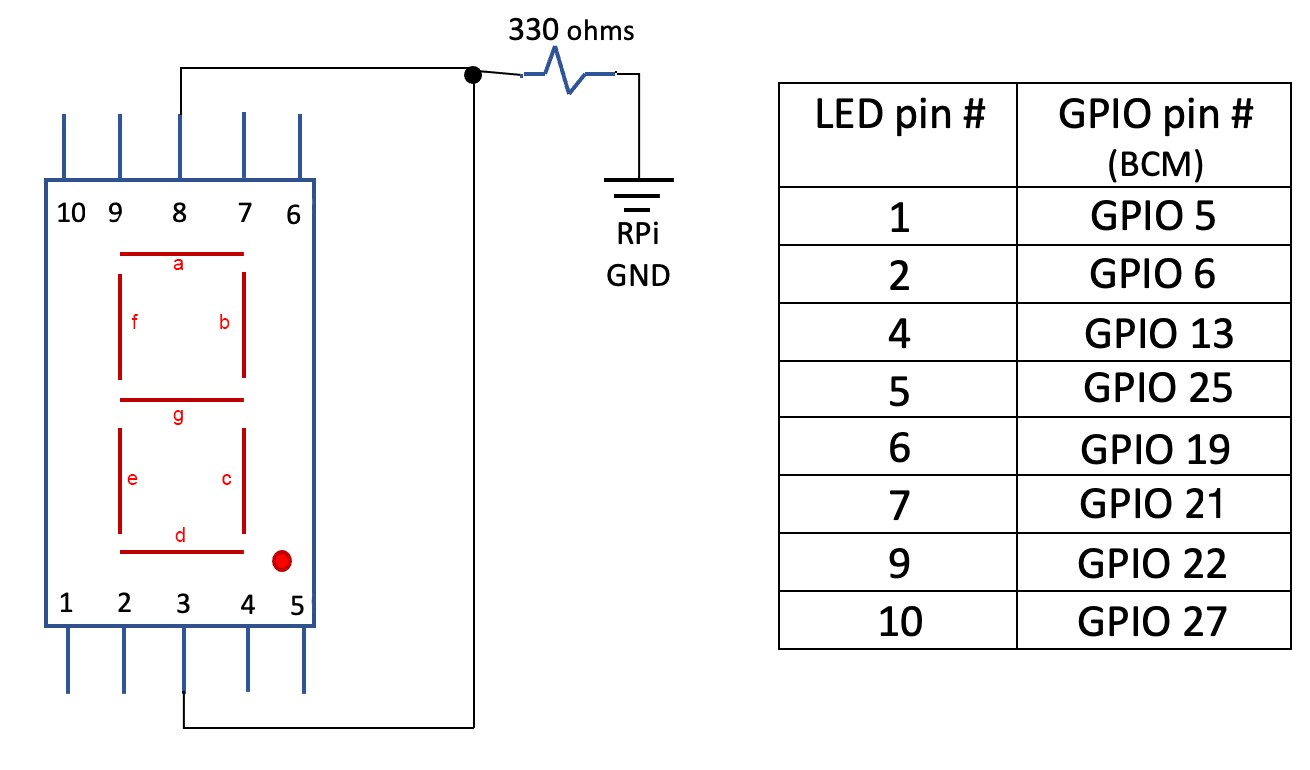
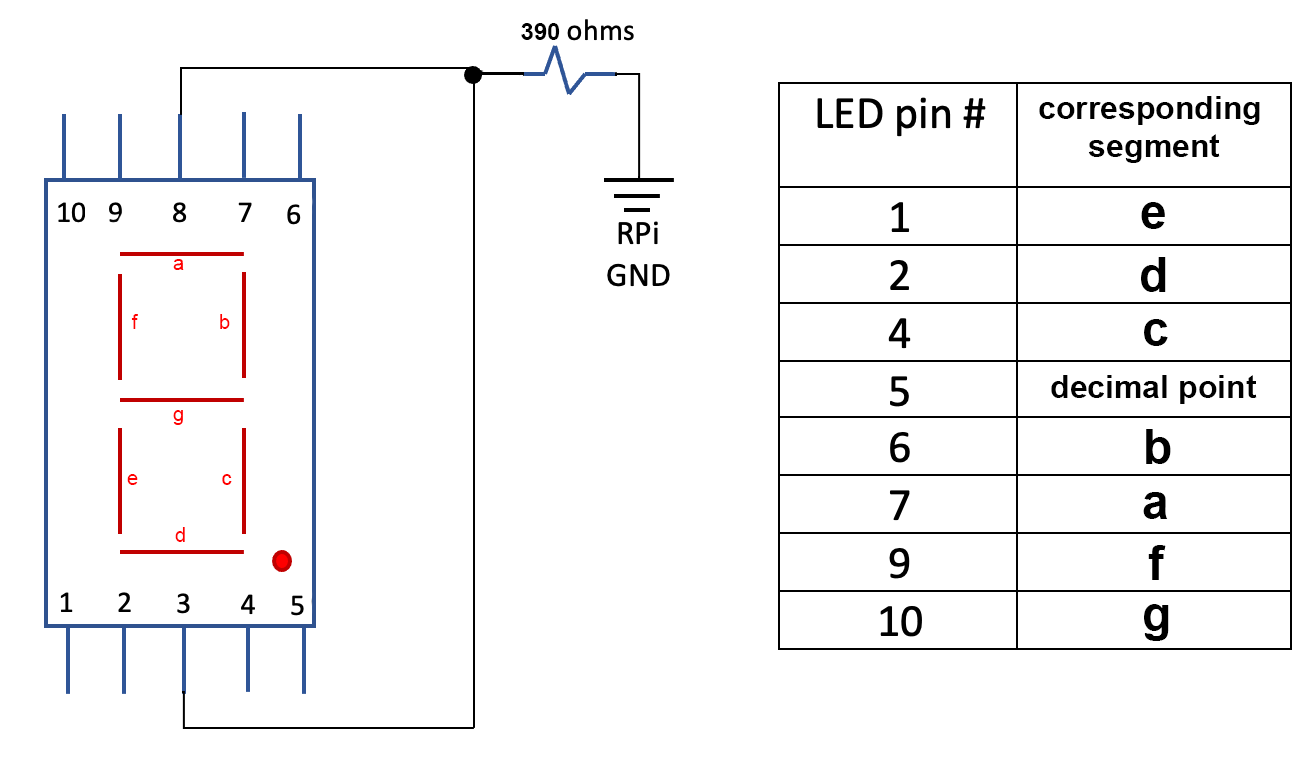
finished circuit schematics update

diff --git a/content/blog/Looper/circuit-schematics/index.md b/content/blog/Looper/circuit-schematics/index.md
@@ -17,7 +17,8 @@ If you are using the RPi HAT Proto board - due to physical constraints, the pin 
 
 For those who already know how to read a schematic and don't need all the details that follows - here it is:
 
-![Looper Pedal Schematics](./looperpedalschematic.png)
+![Looper Pedal Schematics](./looperschematicsAs.png)
+![Looper Pedal Schematics](./looperschematicsBs.png)
 
 > If you don't know how much about electronics symbols, and the Raspberry Pi GPIO connector - read on - I go through everything one-by-one in details.
 > If you don't want to learn the electronics just yet - and want to simply assemble the circuit to get going with the Looper, go to [Parts List](/Looper/How-to-Build-it-parts-list/) first, to find out what parts to get, then go to [Assembly Instructions](/Looper/How-to-Build-it-assembly-circuits/) to start soldering stuff.
@@ -121,38 +122,69 @@ How it works:
 
 
 #### LED circuits:
-These circuits describe the circuits for:
+The Looper circuit uses:
 - Play: green LED
 - Rec: red LED
 - Counter/track indicator: 7 segment common cathode LED
 
-(*The blue LED is shown with the Mode switch with Buffer option - and not shown here.*)
+The buffer circuit uses the blue LED - which is shown with the Buffer On Switch circuit above.
+
 
 ##### Green and Red LED (Play/Rec)
-- The Green LED circuit connects to GPIO16 (BCM Naming)
-- The Red LED circuit connects to GPIO12 (BCM naming)
 
-![Red and Green LED circuits](./LED_rec_play.png)
+The Red LED is lit by the Python code when the Looper is recording a track.
+The Green LED is lit by the Python Code when the mode Switch is in Edit (Bypass) mode.
+> Refer to schematics for GPIO pin connection
+
+![Red and Green LED circuits](./LED_rec_play2.png)
+
+How it works:
+
+- The Python Code has the ability to set GPIO pins as outputs.  This is done for the pin that connect to the resistor of each LED.
+- The Python Code then has the ability to set the output of a pin to ***high*** - which is 3.3V, or to ***low*** which is RPi Ground (0V).  Setting the pin to high is like connecting a 3.3V battery to the pin.
+- When the pin is low - at 0V, no current flows through the circuit, and the LED is Off.
+- When the pin is high - current flows through the Resistor and the LED:
+    - Without going into the physics of the LED, it is enough to understand that once an LED starts to conduct current, it will drop approximately 2V across its terminals. (RED: 1.7-2V, GREEN: 2.1-2.2V.
+    - This means that we need a minimum of 2 volts, at the GPIO pin to turn on an LED:  we have 3.3V so - we are OK. So where is the rest of the voltage?  It is "dropped" across the resistor.
+    - The voltage on one side of the resistor (GPIO pin) is 3.3V.  The Voltage on the other side of the resistor (entry to LED) is 2V.  So we are dropping 1.3V across the resistor - and using again Ohm's law current (I) = Voltage(V) / Resistance (R). With a resistor of 270 Ohm per our schematic, we see that 4.8 mA (milliAmperes) flows across our resistor.  
+    - By increasing the resistance value we lower the current - which makes the LED dimmer.  Conversely, decreasing the resistance increases current making the LED brighter.  
+
+    > I recommend you wire up a diode circuit to test if you like the brightness of the LED.  Also, even though the schematic uses the same resistor (270) for both LED - you can experiment and choose two different resistor to get the brightness you like for each diode.
 
 ##### LED 7-Segment
 Ensure you use a **"common cathode"** 7-segment LED
 
-![LED circuit and GPIO pin table](./7segment_gpio2.png)
+![LED circuit and GPIO pin table](./7segment_gpio3.png)
+
+How it works:
+
+- each segment is a separate diode.  Current enters a given diode at the pin corresponding to the (letter) segment, and flows out pin 3 or 8 (does not matter since 3 and * are the common cathode and connected together internally).  
+- The cathode is always the "exit"point of the current out of the LED (see symbol definition above).  This means that we must set the voltage at the control pins higher then the voltage at pin 3/8.  We do this by connecting the control pins to a GPIO pin, and the pin3/8 connect through ground (0v) through a current limiting resistor - similar to what was explained above for red/green LED.  
+- It does not matter if the resistor is before or after the diode, but if we put it after - we only need one.
+> Be advise that I am cheating here.  The recommended practice is to put one resistor on each pin and connect 3/8 directly to ground. This is recommended to make sure that each diode get the same current whether one or more segment are lit - to ensure equal brightness.  
+> In our case, remember that the current is decided by the resistor - which here is 390 ohm. If we use a voltage drop of 1.7V for the red led segment we find current = (3.3 - 1.7) Volt / 390 ohms = 4.1 mA.  However if two segments on, they have to share this current among them - so if we had two exactly the same segment - they would each get about 2mA.  Then when all 8 segments are on, they get about 0.5 mAmp each - which is dim.
+> However, LED are not linear like resistors, so when they are turning on - which is the region we are operating in - a small increase of current does not necessarily means a bit change in brightness.  You should test it - but for our application the change in brightness between displaying number 1 vs number 8 is not that noticeable - or foes not affect the purpose for which it is use (counting down position in a track).   
+> If you ever build a project where you have multiple 7-segment displays next to each other, then you should not use only one resistors - because a #1 next to a #8 will be different enough to look bad. (But here we only have one - so it does not really matter).
+
 
 #### Optional Buffer circuit
 If you have selected to include the buffer circuit, and the associated Mode Switch (on-off-on DPDT toggle), build the following circuit on the same breadboard as the rest of the switches and LED circuits - making sure that it is separated from the Raspberry pi power and ground (these should **NOT** be connected together on the breadboard).
 
-- Buffer circuit connects to 9V battery – completely separated from RPi
-- Buffer circuit Ground (GND) is NOT connected to RPi ground.
-- Buffer circuit uses two mono ¼ inch guitar jacks (female) Input & Output – not connected internally to RPi circuit/RPi GND.  
-    - Connect the connector  that contacts the tip of the jack to IN or OUT.  
-    - Connect the connector that contacts the sleeve to the Buffer GND (not raspberry pi ground).
+- Buffer circuit connects to Switched 9V  (power from battery through Buffer On switch) – completely separated from RPi.
+- Buffer circuit Ground (GND) is the negative of the battery NOT connected to RPi ground (GNDREF on schematic).
 
 > There are various alternatives for the output jack using 3.5mm plugs that can be used here.  See the discussion in the [parts list](/Looper/How-to-Build-it-parts-list/) document.
 
-![Optional Buffer circuit](./buffer.png)
+![Optional Buffer circuit](./buffer2.png)
 
+A discussion of how it works is too long for this page. I will eventually post something separately.
 
+> The 470K ohm resistor plays a key role to increase the input impedance of the buffer - which we want has high as possible ro match the output impedance of the guitar (It has to be high enough to not reflect too much power, but low enough to provide enough current to the transistor).  
+> The higher the resistance, the better the power transfer and the purest the tone (of your guitar).  
+> However, if your guitar puts out two much voltage (hot pickups, or you play really hard with a puck) - the higher resistance means more power transferred, and you may overdrive the transistor - creating distortion.  In this case you may want to lower the resistor. Listen for the tone you get to decide what is good for you.  
+> If you like the distortion sound (very vintage with one transistor) - you can keep the resistor but turn down the volume for clean parts.  
+
+As always I recommend building the circuit on a bread board and trying it out to see what you get before soldering everything.  But the values that are there should work - if you just want to go ahead.
 
 
 
